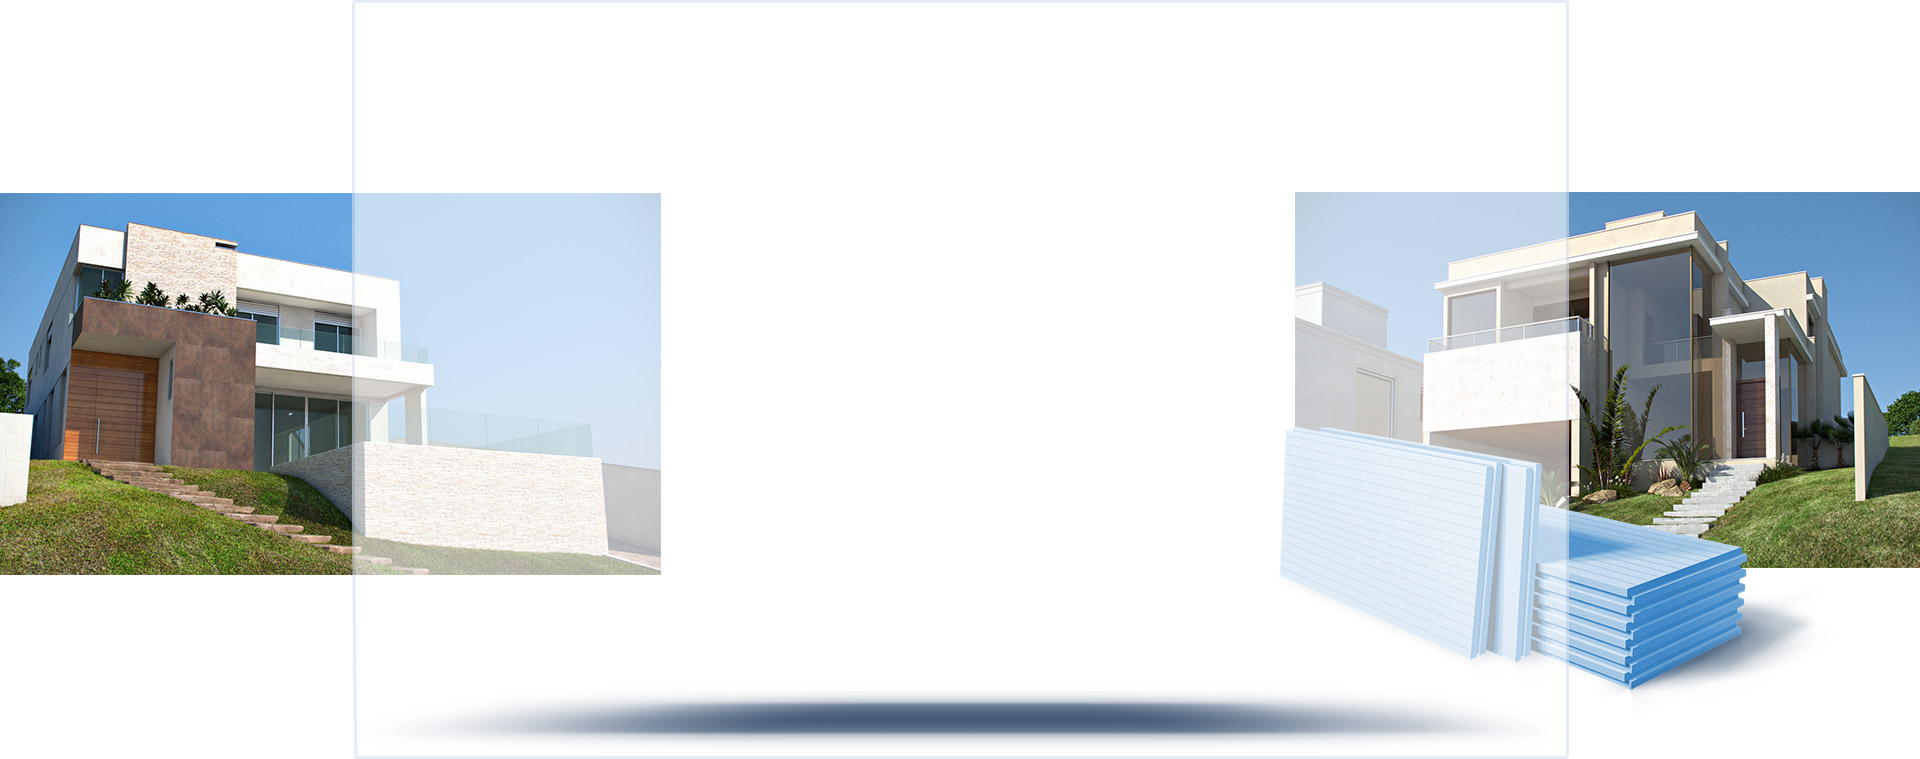
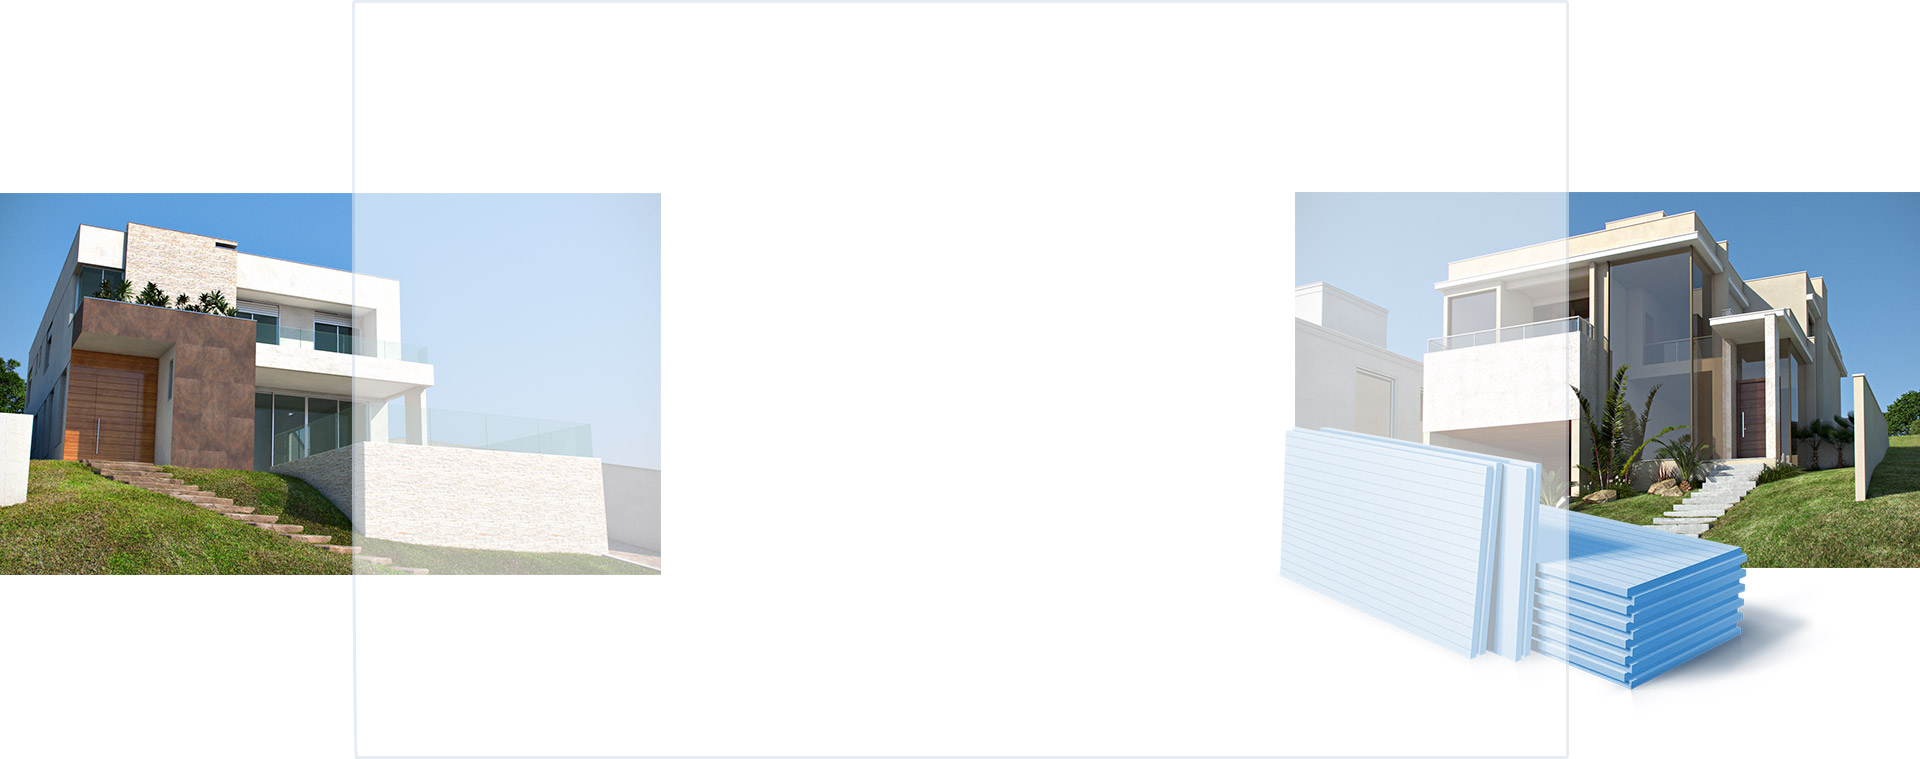
18/12/2021 core

Changed region(s): [[0.25, 0.9091, 0.7812, 1.0]]

diff --git a/css/style.css b/css/style.css
@@ -436,8 +436,8 @@ body {
 .container__specisifacions {
     max-width: 1920px;
     margin: 0 auto;
-    background-image: url(../img/background__specifications.jpg);
-    background-repeat: no-repeat;
+    background: url(../img/background__specifications.jpg) center no-repeat;
+    background-size: cover;
 }
 .container__table {
     max-width: 1225px;
@@ -473,7 +473,7 @@ body {
     text-transform: uppercase;
     font-weight: 700;
     color: #fff;
-    background: url(../img/backtable.jpg);
+    background: url(../img/background_table_title.jpg);
 }
 .table__content {
     font-size: 14px;

diff --git a/index.html b/index.html
@@ -354,6 +354,7 @@
                     <td>-50...+75</td>
                 </tr>
             </table>
+            <img src="img/shadow__table.png" alt="">
         </div>
 
     </div>
